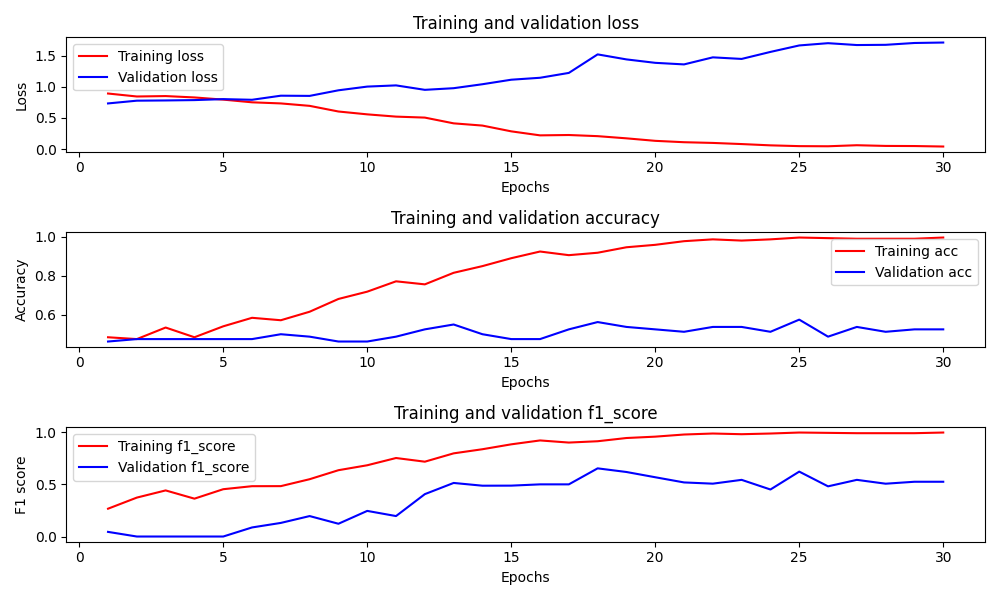
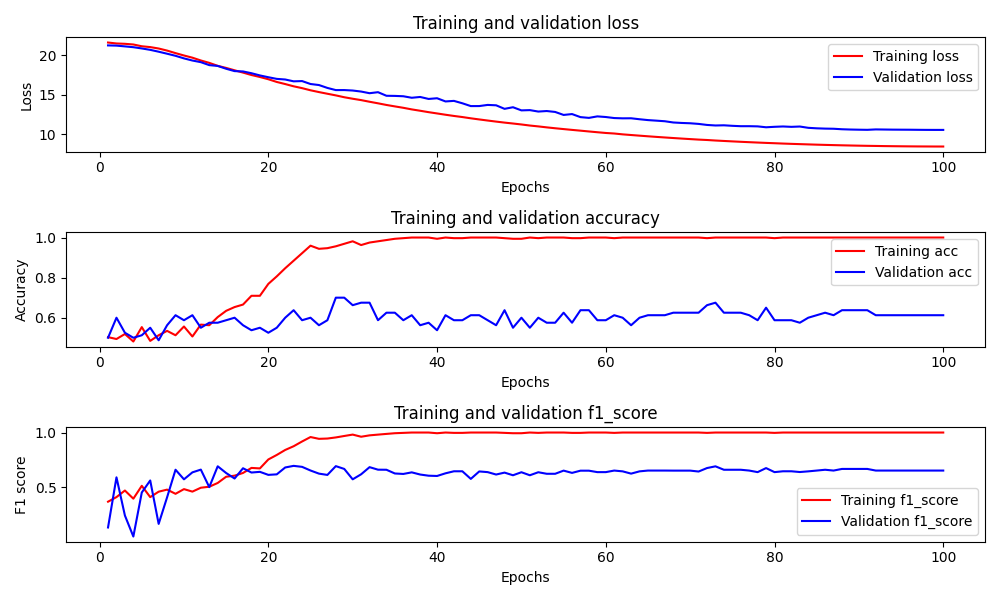
add container instructions

diff --git a/case1/bert.py b/case1/bert.py
@@ -191,7 +191,7 @@ def build_model(bert_preprocess_model, bert_model, plot_model = True):
     #                                 name='dense_1')(outputs)
     outputs = tf.keras.layers.Dropout(0.5)(outputs)
     outputs = tf.keras.layers.Dense(1, activation=None, \
-                                    kernel_regularizer=tf.keras.regularizers.L2(0.01), \
+                                    kernel_regularizer=tf.keras.regularizers.L2(1e3), \
                                     name='dense_output')(outputs)
     
     model = tf.keras.Model(inputs, outputs)
@@ -205,7 +205,7 @@ model = build_model(bert_preprocess_model, bert_model)
 
 #%%
 
-def train_model(model, train_ds, val_ds, epochs = 30):
+def train_model(model, train_ds, val_ds, epochs = 100):
 
     # Compile
     loss = tf.keras.losses.BinaryCrossentropy(from_logits=True)
@@ -215,8 +215,8 @@ def train_model(model, train_ds, val_ds, epochs = 30):
     num_train_steps = steps_per_epoch * epochs
     num_warmup_steps = int(0.1*num_train_steps)
     
-    init_lr = 3e-5
-    # init_lr = 1e-4
+    # init_lr = 3e-5
+    init_lr = 1e-4
     optimizer = optimization.create_optimizer(init_lr=init_lr,
                                               num_train_steps=num_train_steps,
                                               num_warmup_steps=num_warmup_steps,
